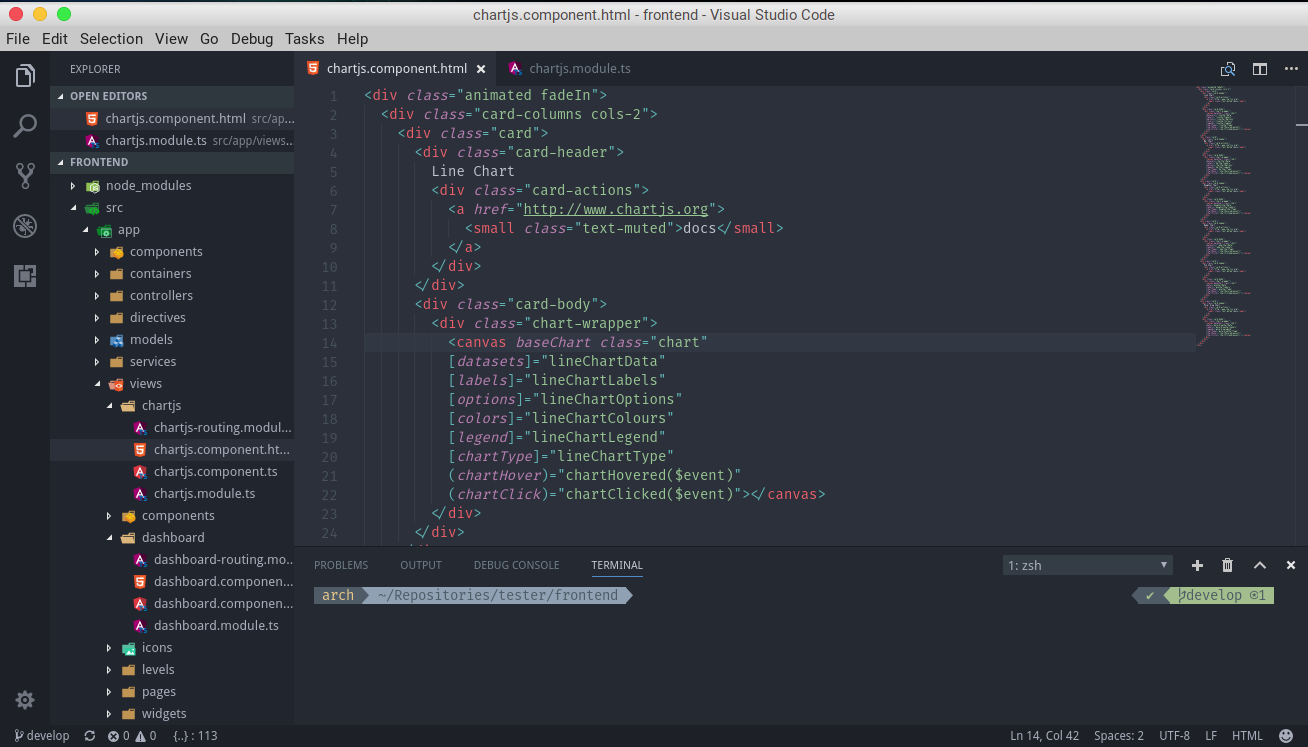
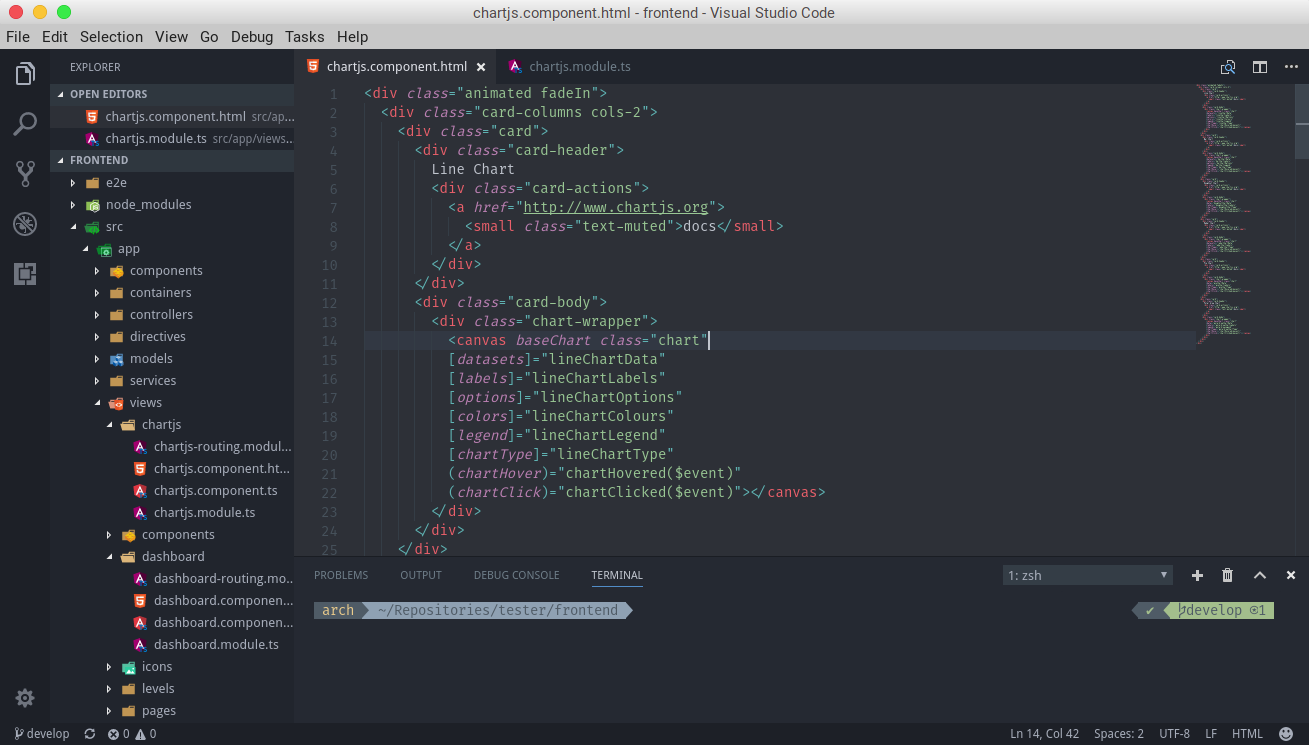
0.2.0 New Editor Background Color

diff --git a/CHANGELOG.md b/CHANGELOG.md
@@ -1,4 +1,7 @@
 # CHANGELOG #
 
+## 0.2.0 ##
+New Editor Background Color (based on React.js website theme)
+
 ## 0.1.0 ##
 Initial Version
